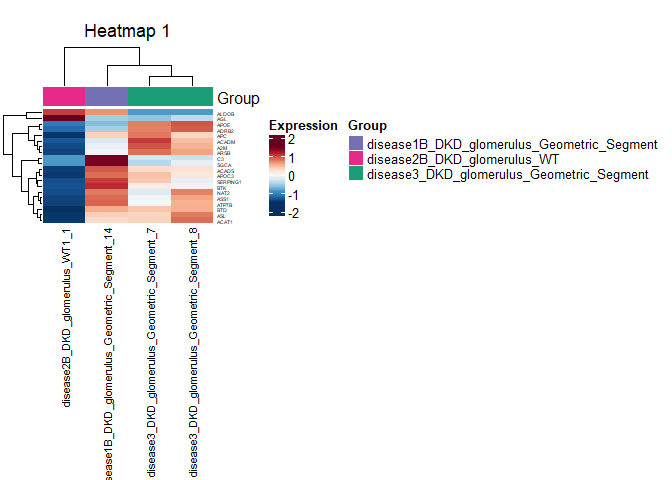
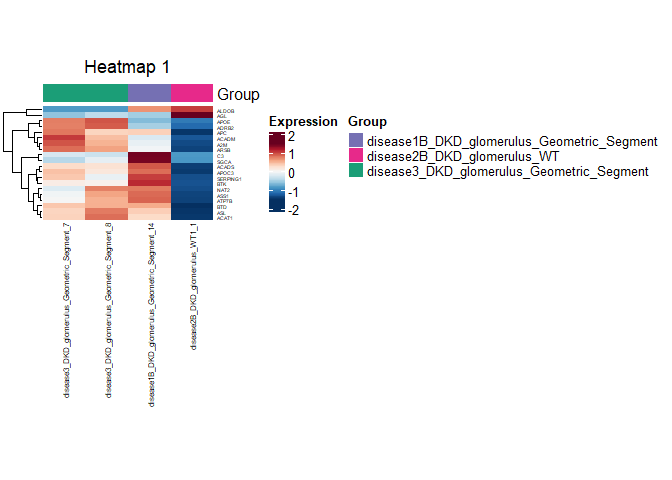
Update ReadMe with more exmples for adv_Heatmap() update MAN for default option of adv_Heatmap() for row_annotation_method

Changed region(s): [[0.0, 0.125, 1.0, 1.0], [0.125, 0.0312, 0.25, 0.0938], [0.0938, 0.0938, 0.125, 0.125]]

diff --git a/README.md b/README.md
@@ -303,7 +303,7 @@ hm <- print_heatmap(seed, sumBioRepsMatrix, title, split_heatmap_clusters, annot
 
 **Generate heatmaps with advanced customization:**
 
-With the function “adv_heatmap” users can generate heatmaps using a lot
+With the function “adv_Heatmap” users can generate heatmaps using a lot
 of different settings. The options include:
 
 - changeable heatmap title
@@ -333,26 +333,77 @@ of different settings. The options include:
 - changeable height size of the heatmap
 - changeable unit used for the heatmap sizes
 
-The respective metadata file (dataframe) can be generated similarly to
-this example:
+The advanced heatmap can then be generated usind adv_Heatmap() and
+choosing parameter options by specifically setting them or alternatively
+use the parameters default. The only input necessary to directly
+generate a heatmap is the input matrix as shown below.
 
 ``` r
+# default settings of the parameters
+seed <- 1                                             # sets seed
+column_name <- "Heatmap"                              # name for heatmap
+colorPalette <- NULL                                  # available color palettes from RColorBrewer ()
+cluster_method <- "hierarchical"                      # cluster methods, either "hierarchical" or "kmeans"
+distance_method <- "euclidean"                        # method for creating the distance matrix for hierarchical clustering
+cluster_rows <- TRUE                                  # optional clustering of rows, default = TRUE
+cluster_columns <- FALSE                              # optional clustering of columns, default = FALSE
+k_row = NULL                                          # splitting of rows in heatmaps using k-means, would be an integer
+k_col = NULL                                          # splitting of columns in heatmaps using k-means, would be an integer
+sample_metadata <- NULL                               # dataframe containing the metadata information of the file
+annotation_colors <- NULL                             # list containing the column groups and the choosen colors for the column annotation per group
+annotation_name_side = "right"                        # optional change: side of annotation name
+show_row_names <- FALSE                               # optional change: show of rownames on = TRUE & off = FALSE
+show_column_names = TRUE                              # optional change: show of column names on = TRUE & off = FALSE
+row_annotation = FALSE                                # optional row annotation
+row_annotation_method = "auto"                        # set if row_annotation = TRUE: options are "auto" & "specific"
+row_anno_names = NULL                                 # set if row_annotation = TRUE & row_annotation_method = "specific: input list of specific genes for the row annotation
+row_anno_number = 5                                   # optional change: number of automatic row annotations per cluster
+fontsize_rowAnnotation = 8                            # optional change: fontsize of the optional row annotation
+fontsize_columnNames = 6                              # optional change: fontsize of the optional column names
+fontsize_rowNames = 4                                 # optional change: fontsize of the optional row names
+title_heatmapLegend = "Expression"                    # changeable title of the legend, default "Expression"
+WidthNum = 4.5                                        # optional change of heatmap width
+HeightNum = 3                                         # optional change of heatmap height
+UnitSize = "cm"                                       # optional change of heatmap unit for sizes
+
+# Using the adv_Heatmap() function with only the input matrix file. All other parameters use their default option.
+adv_Heatmap(scaled_counts)
+```
+
+<img src="man/figures/README-exampleadv_Heatmap_default-1.png" width="100%" /><img src="man/figures/README-exampleadv_Heatmap_default-2.png" width="100%" />
+
+All the optional parameters can then be changed to the taste and
+specifications of the user. For example, the color scheme can be
+changed, the row names can be shown in the heatmap and a group
+annotation can be pictured using a metadata file as input.
+
+This metadata file can either be loaded into R as an excel or csv file,
+or alternatively be produced within R as shown below.
+
+``` r
+# set a list of the groups (names should be contained within the sample names)
 groups <- c("disease3_DKD_glomerulus_Geometric_Segment", "disease1B_DKD_glomerulus_Geometric_Segment", "disease2B_DKD_glomerulus_WT")
+
+# get the sample names from the used data set
 sample_names <- c(colnames(scaled_counts))
+
 # Match each sample name to the correct group
 group_assignment <- sapply(sample_names, function(sample) {
   matched <- groups[sapply(groups, function(g) grepl(g, sample))]
   if (length(matched) > 0) matched[1] else NA
 })
+
 # Ensure same length
 stopifnot(length(sample_names) == length(group_assignment))
 
-# Create dataframe
+# Create a dataframe with the sample names and their respective group assignments
 sample_metadata <- data.frame(Group = group_assignment, row.names = sample_names)
 
-all(colnames(scaled_counts) == rownames(sample_metadata)) # confirm matrix column names match metadata rownames
+# confirm matrix column names match the metadata rownames
+all(colnames(scaled_counts) == rownames(sample_metadata)) 
 #> [1] TRUE
 
+# set a list with the Groups and choose colors for them
 group_colors <- list(Group = c("disease3_DKD_glomerulus_Geometric_Segment" = "#1b9e77", "disease1B_DKD_glomerulus_Geometric_Segment" = "#7570b3", "disease2B_DKD_glomerulus_WT" = "#e7298a"))
 
 names(group_colors$Group)
@@ -367,16 +418,19 @@ print(sample_metadata)
 #> disease2B_DKD_glomerulus_WT1_1                               disease2B_DKD_glomerulus_WT
 ```
 
+The heatmap parameters can then be changed to generate a more advanced
+and custom heatmap:
+
 ``` r
-# parameters and their options in adv_heatmap()
+# parameters and their options in adv_Heatmap()
 ncounts_matrix <- scaled_counts                       # input matrix
 seed <- 1                                             # sets seed
-column_name <- "Heatmap 1"                              # name for heatmap
+column_name <- "Heatmap 1"                            # name for heatmap
 colorPalette <- "RdBu"                                # available color palettes from RColorBrewer ()
 cluster_method <- "hierarchical"                      # cluster methods, either "hierarchical" or "kmeans"
 distance_method <- "euclidean"                        # method for creating the distance matrix for hierarchical clustering
 cluster_rows <- TRUE                                  # optional clustering of rows, default = TRUE
-cluster_columns <- TRUE                               # optional clustering of columns, default = FALSE
+cluster_columns <- FALSE                               # optional clustering of columns, default = FALSE
 k_row = NULL                                          # splitting of rows in heatmaps using k-means, would be an integer
 k_col = NULL                                          # splitting of columns in heatmaps using k-means, would be an integer
 sample_metadata <- sample_metadata                    # dataframe containing the metadata information of the file
@@ -389,7 +443,7 @@ row_annotation_method = "auto"                        # set if row_annotation = 
 row_anno_names = NULL                                 # set if row_annotation = TRUE & row_annotation_method = "specific: input list of specific genes for the row annotation
 row_anno_number = 5                                   # optional change: number of automatic row annotations per cluster
 fontsize_rowAnnotation = 8                            # optional change: fontsize of the optional row annotation, default = 8
-fontsize_columnNames = 8                              # optional change: fontsize of the optional column names, default = 6
+fontsize_columnNames = 6                              # optional change: fontsize of the optional column names, default = 6
 fontsize_rowNames = 4                                 # optional change: fontsize of the optional row names, default = 4
 title_heatmapLegend = "Expression"                    # changeable title of the legend, default "Expression"
 WidthNum = 4.5                                        # optional change of heatmap width, default = 4.5
